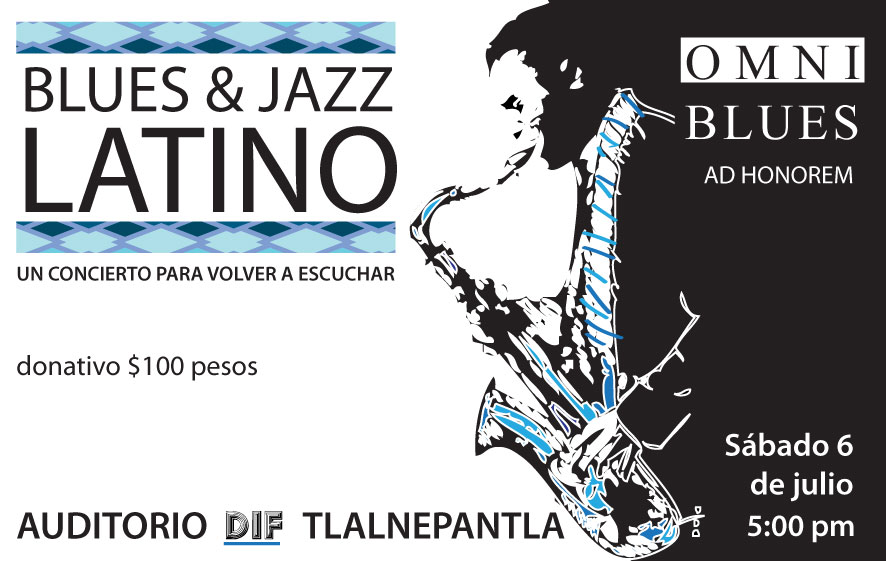
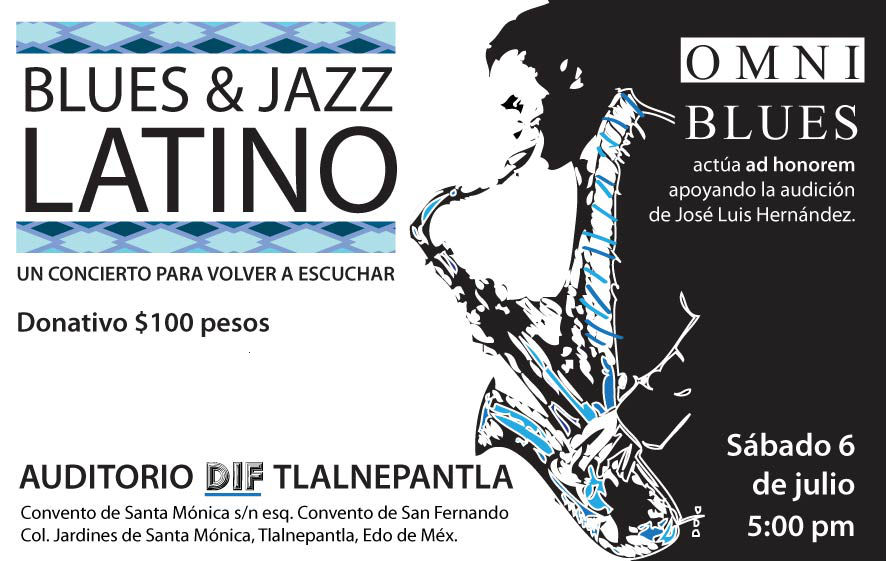
Updated promo and better rendering of map

diff --git a/concierto.html b/concierto.html
@@ -9,7 +9,7 @@ title: Concierto de Blues/Jazz a Favor de Luis
 </p>
 
 <p>
-  <img alt='' src='/assets/images/concierto/concierto-promo.jpg'/>
+  <img alt='Omniblues Ad Honorem - Luis' src='/assets/images/concierto/concierto-promo.jpg'/>
 </p>
 
 <p>
@@ -17,15 +17,10 @@ title: Concierto de Blues/Jazz a Favor de Luis
   fines de lucro, así mismo es una propuesta de manufactura 100% mexicana que
   ofrece una novedosa forma de transmitir alegría y optimismo mediante una
   refinada estructura musical.
+  <a href='/omniblues-bio.html'>Leer mas sobre sobre ellos...</a>.
 </p>
 
+<h3>Como llegar?</h3>
 <p>
-  Leer mas sobre su <a href='/omniblues-bio.html'>biografia</a>.
-</p>
-
-<p>
-  Como llegar?<br/>
-</p>
-<p>
-  <iframe width="425" height="350" frameborder="0" scrolling="no" marginheight="0" marginwidth="0" src="https://www.google.com/maps?f=q&amp;source=s_q&amp;hl=en&amp;geocode=&amp;q=dif+near+Santa+Monica,+Tlalnepantla+de+Baz,+Mexico&amp;aq=1&amp;oq=DIF,+santa+monica&amp;sll=19.202968,-98.468243&amp;sspn=0.013759,0.022724&amp;ie=UTF8&amp;hq=dif&amp;hnear=Hsbc+Santa+Monica,+Bosques+De+Puebla+58,+54050+Tlalnepantla,+Mexico&amp;t=m&amp;ll=19.532714,-99.225898&amp;spn=0.007078,0.00912&amp;z=16&amp;output=embed"></iframe><br /><small><a href="https://www.google.com/maps?f=q&amp;source=embed&amp;hl=en&amp;geocode=&amp;q=dif+near+Santa+Monica,+Tlalnepantla+de+Baz,+Mexico&amp;aq=1&amp;oq=DIF,+santa+monica&amp;sll=19.202968,-98.468243&amp;sspn=0.013759,0.022724&amp;ie=UTF8&amp;hq=dif&amp;hnear=Hsbc+Santa+Monica,+Bosques+De+Puebla+58,+54050+Tlalnepantla,+Mexico&amp;t=m&amp;ll=19.532714,-99.225898&amp;spn=0.007078,0.00912&amp;z=16" style="color:#0000FF;text-align:left">View Larger Map</a></small>
+  <iframe width='100%' height='350px' frameborder="0" scrolling="no" marginheight="0" marginwidth="0" src="https://www.google.com/maps?f=q&amp;source=s_q&amp;hl=en&amp;geocode=&amp;q=dif+near+Santa+Monica,+Tlalnepantla+de+Baz,+Mexico&amp;aq=1&amp;oq=DIF,+santa+monica&amp;sll=19.202968,-98.468243&amp;sspn=0.013759,0.022724&amp;ie=UTF8&amp;hq=dif&amp;hnear=Hsbc+Santa+Monica,+Bosques+De+Puebla+58,+54050+Tlalnepantla,+Mexico&amp;t=m&amp;ll=19.532714,-99.225898&amp;spn=0.007078,0.00912&amp;z=16&amp;output=embed"></iframe><br /><small><a href="https://www.google.com/maps?f=q&amp;source=embed&amp;hl=en&amp;geocode=&amp;q=dif+near+Santa+Monica,+Tlalnepantla+de+Baz,+Mexico&amp;aq=1&amp;oq=DIF,+santa+monica&amp;sll=19.202968,-98.468243&amp;sspn=0.013759,0.022724&amp;ie=UTF8&amp;hq=dif&amp;hnear=Hsbc+Santa+Monica,+Bosques+De+Puebla+58,+54050+Tlalnepantla,+Mexico&amp;t=m&amp;ll=19.532714,-99.225898&amp;spn=0.007078,0.00912&amp;z=16" style="color:#0000FF;text-align:left">View Larger Map</a></small>
 </p>
